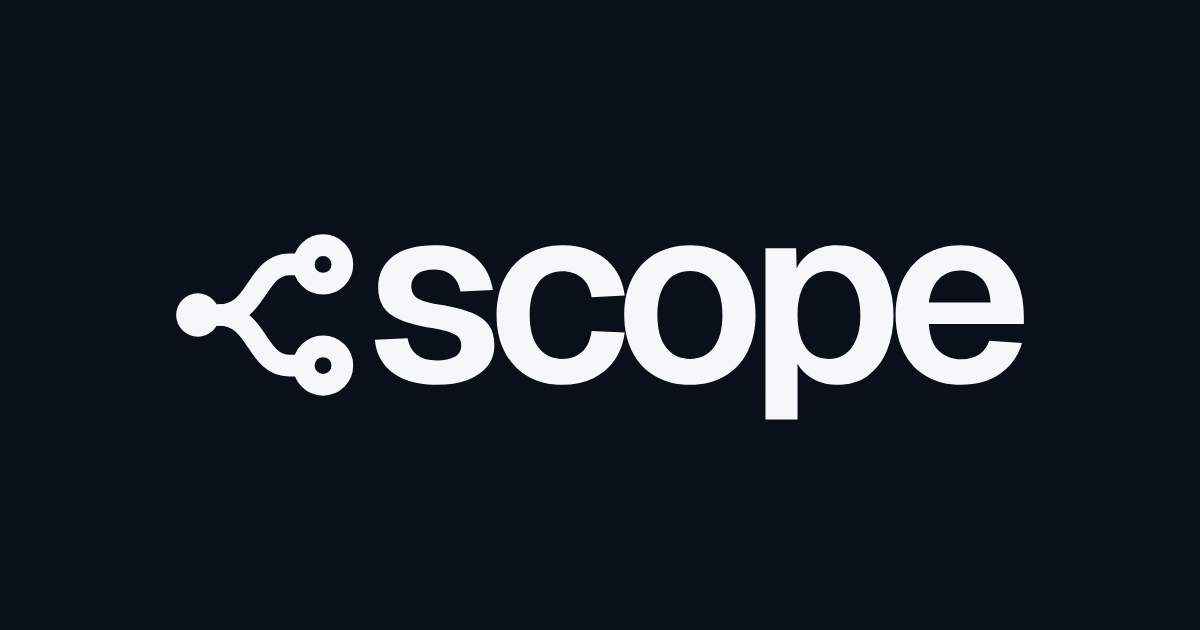
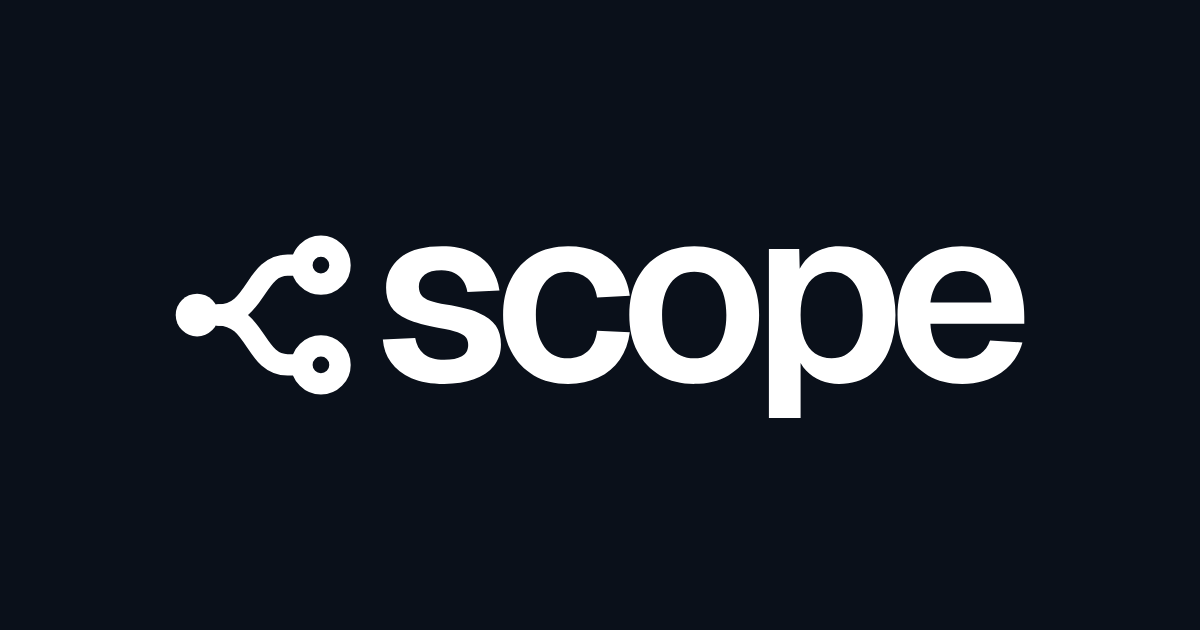
Increase Scope lockup spacing

diff --git a/brand/explorations/scope-logo-directions.html b/brand/explorations/scope-logo-directions.html
@@ -691,19 +691,19 @@
         </g>
       </symbol>
 
-      <symbol id="projected-lockup" viewBox="0 0 381.936700079 96">
+      <symbol id="projected-lockup" viewBox="0 0 386.436700079 96">
         <metadata>
           {
             "markStrokeWidth": 9,
             "alignmentPlane": {"top": 19, "center": 48, "bottom": 77},
-            "wordTransform": {"x": 91.51096462072829, "y": 18.973212625370238, "scale": 1.164728733611662},
-            "visibleGap": 9,
+            "wordTransform": {"x": 96.01096462072829, "y": 18.973212625370238, "scale": 1.164728733611662},
+            "visibleGap": 13.5,
             "outerClearspace": {"left": 15, "right": 15},
-            "canvas": {"width": 381.9367000790678, "height": 96}
+            "canvas": {"width": 386.4367000790678, "height": 96}
           }
         </metadata>
         <use href="#projected-mark" width="96" height="96"/>
-        <use href="#scope-wordmark" x="91.510964621" y="18.973212625" width="279.534896067" height="74.542638951"/>
+        <use href="#scope-wordmark" x="96.010964621" y="18.973212625" width="279.534896067" height="74.542638951"/>
       </symbol>
     </defs>
   </svg>
@@ -732,7 +732,7 @@
         <p>The branching symbol stays. The hand-drawn monoline “scope” is gone. The revised lockup uses Scope’s existing Geist Semibold foundation, converted to real vector outlines and spaced as one deliberate unit.</p>
         <aside class="verdict">
           <strong>Result</strong>
-          <span>The symbol centerline box and the wordmark’s x-height body share the same measured plane and center. Their visible gap is one stroke width.</span>
+          <span>The symbol centerline box and the wordmark’s x-height body share the same measured plane and center. Their visible gap is one and a half stroke widths.</span>
         </aside>
       </div>
     </section>
@@ -740,18 +740,18 @@
     <section class="lockup-stage" aria-label="Final lockup on light and dark backgrounds">
       <div class="stage stage-light">
         <span class="stage-label">Positive</span>
-        <svg class="final-lockup" viewBox="0 0 381.936700079 96" role="img" aria-label="Revised Projected Views Scope lockup on a light background"><use href="#projected-lockup"/></svg>
+        <svg class="final-lockup" viewBox="0 0 386.436700079 96" role="img" aria-label="Revised Projected Views Scope lockup on a light background"><use href="#projected-lockup"/></svg>
       </div>
       <div class="stage stage-dark">
         <span class="stage-label">Reversed</span>
-        <svg class="final-lockup" viewBox="0 0 381.936700079 96" role="img" aria-label="Revised Projected Views Scope lockup on a dark background"><use href="#projected-lockup"/></svg>
+        <svg class="final-lockup" viewBox="0 0 386.436700079 96" role="img" aria-label="Revised Projected Views Scope lockup on a dark background"><use href="#projected-lockup"/></svg>
       </div>
     </section>
 
     <section class="changes shell" aria-label="Revision summary">
       <div class="change"><b>Matched the primary plane</b><span>Symbol centerlines and word x-height both occupy <code>y 19–77</code>, centered exactly on <code>y 48</code>.</span></div>
-      <div class="change"><b>Used one-stroke spacing</b><span>The symbol ends at <code>x 88.5</code>; the word begins at <code>x 97.5</code>. The gap is exactly <code>9px</code>.</span></div>
-      <div class="change"><b>Balanced horizontal clearspace</b><span>Visible content has 15 pixels on both outer edges of a <code>381.936700079 × 96</code> canvas.</span></div>
+      <div class="change"><b>Opened the lockup spacing</b><span>The symbol ends at <code>x 88.5</code>; the word begins at <code>x 102</code>. The gap is exactly <code>13.5px</code>, or one and a half strokes.</span></div>
+      <div class="change"><b>Balanced horizontal clearspace</b><span>Visible content has 15 pixels on both outer edges of a <code>386.436700079 × 96</code> canvas.</span></div>
     </section>
 
     <section class="section shell">
@@ -791,9 +791,9 @@
       </div>
 
       <div class="lockup-sizes" aria-label="Lockup at three widths">
-        <div class="lockup-row"><span>120 px</span><svg width="120" viewBox="0 0 381.936700079 96"><use href="#projected-lockup"/></svg></div>
-        <div class="lockup-row"><span>180 px</span><svg width="180" viewBox="0 0 381.936700079 96"><use href="#projected-lockup"/></svg></div>
-        <div class="lockup-row"><span>260 px</span><svg width="260" viewBox="0 0 381.936700079 96"><use href="#projected-lockup"/></svg></div>
+        <div class="lockup-row"><span>120 px</span><svg width="120" viewBox="0 0 386.436700079 96"><use href="#projected-lockup"/></svg></div>
+        <div class="lockup-row"><span>180 px</span><svg width="180" viewBox="0 0 386.436700079 96"><use href="#projected-lockup"/></svg></div>
+        <div class="lockup-row"><span>260 px</span><svg width="260" viewBox="0 0 386.436700079 96"><use href="#projected-lockup"/></svg></div>
       </div>
     </section>
 
@@ -809,7 +809,7 @@
           <div class="context-label"><span>Header + social preview</span><span>Dark product context</span></div>
           <div class="product-context">
             <nav>
-              <svg class="nav-lockup" viewBox="0 0 381.936700079 96" aria-label="Scope"><use href="#projected-lockup"/></svg>
+              <svg class="nav-lockup" viewBox="0 0 386.436700079 96" aria-label="Scope"><use href="#projected-lockup"/></svg>
               <div class="nav-links"><span>Product</span><span>Docs</span><span>Sign in</span></div>
             </nav>
             <div class="social-preview">

diff --git a/web/src/components/scope-logo.tsx b/web/src/components/scope-logo.tsx
@@ -8,7 +8,7 @@ export function ScopeLogo({ className }: { className?: string }) {
       decoding="async"
       height={96}
       src="/brand/scope-lockup.svg"
-      width={382}
+      width={386}
     />
   )
 }
